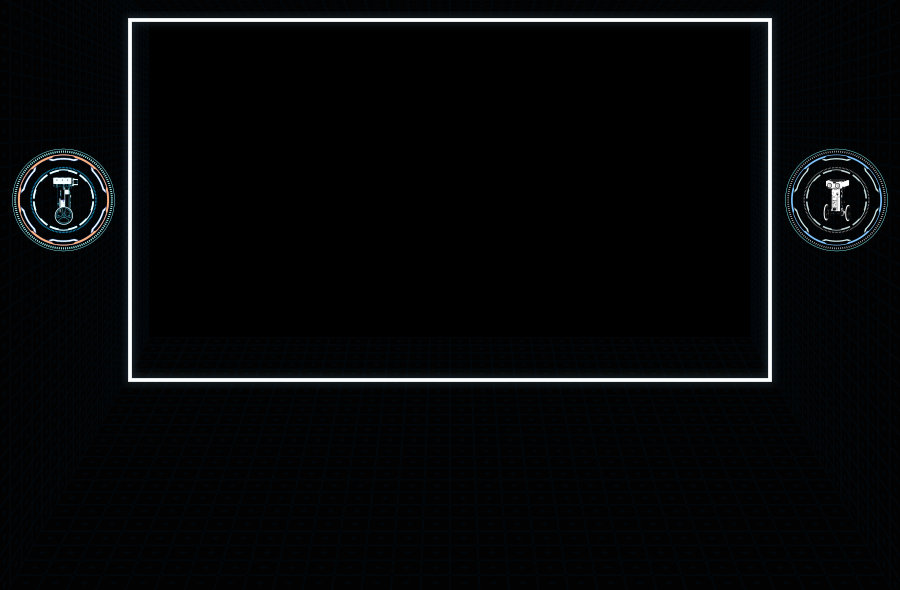
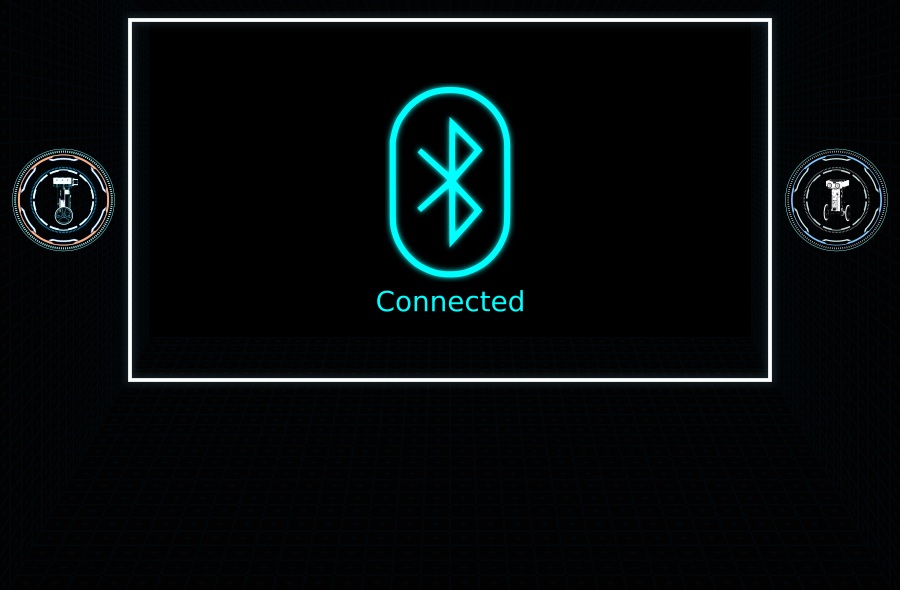
Tidied up some files

Changed region(s): [[0.4044, 0.122, 0.5911, 0.5492]]

diff --git a/Python/Development/T-Bot_Tracking/TrackAndChase.py b/Python/Development/T-Bot_Tracking/TrackAndChase.py
@@ -24,6 +24,7 @@ textPrint = pgt.TextPrint((255,255,255))
 textPrint.setlineheight(25)
 
 background = pygame.image.load(dirpath+'/BGTracker.png')
+connecting = pygame.image.load(dirpath+'/offline.png')
 scalefactor = 1
 #origin =  [636/2,357/2]
 origin =  [130,20]
@@ -352,8 +353,12 @@ if __name__ == '__main__':
         #---------------------------------------------------------------
         if ~btcom.connected():
             tries = 0
+
             while btcom.connected() < 1 and tries < 10:
+                screen.blit(connecting,(0,0))
+                pygame.display.flip()
                 print('Connecting ...')
+                
                 try:
                     print('Try '+str(tries+1)+' of 10')
                     btcom.connect(0)

diff --git a/Python/Development/T-Bot_Tracking/DrawAndTrack_Pygame.py b/Python/Development/T-Bot_Tracking/DrawAndTrack_Pygame.py
@@ -24,6 +24,7 @@ textPrint = pgt.TextPrint((255,255,255))
 textPrint.setlineheight(25)
 
 background = pygame.image.load(dirpath+'/BGTracker.png')
+connecting = pygame.image.load(dirpath+'/offline.png')
 scalefactor = 1
 #origin =  [636/2,357/2]
 origin =  [130,20]
@@ -412,6 +413,8 @@ if __name__ == '__main__':
         if ~btcom.connected():
             tries = 0
             while btcom.connected() < 1 and tries < 10:
+                screen.blit(connecting,(0,0))
+                pygame.display.flip()
                 print('Connecting ...')
                 try:
                     print('Try '+str(tries+1)+' of 10')
